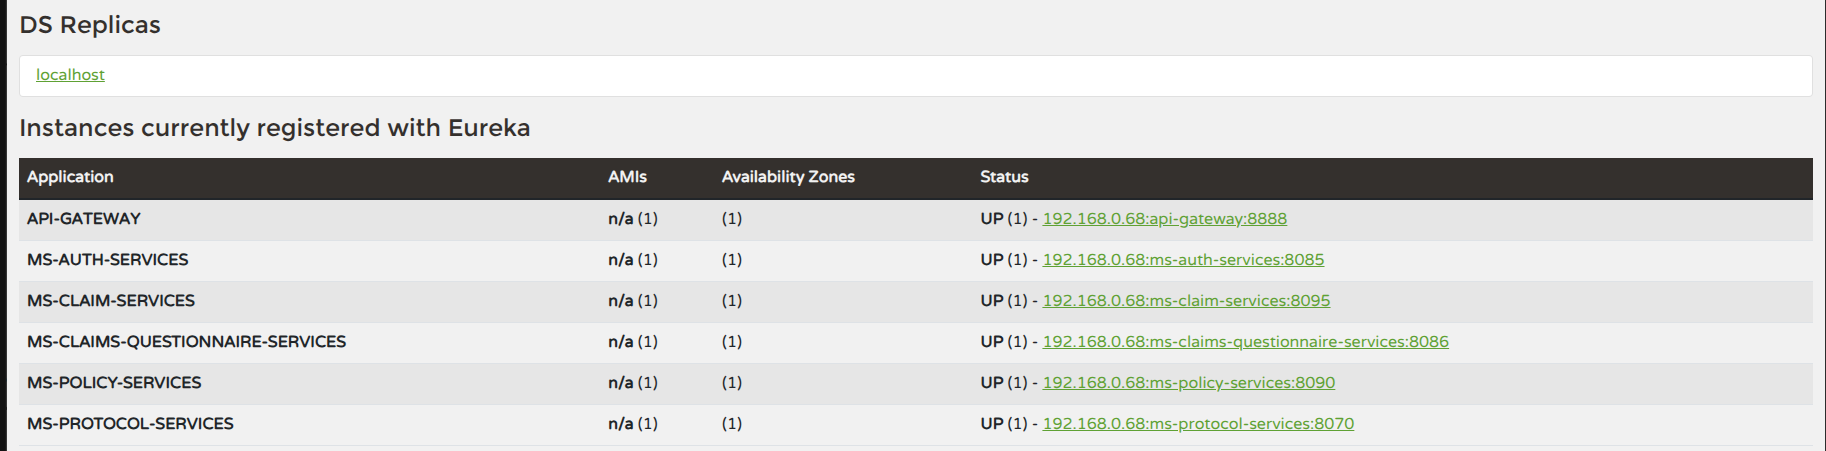
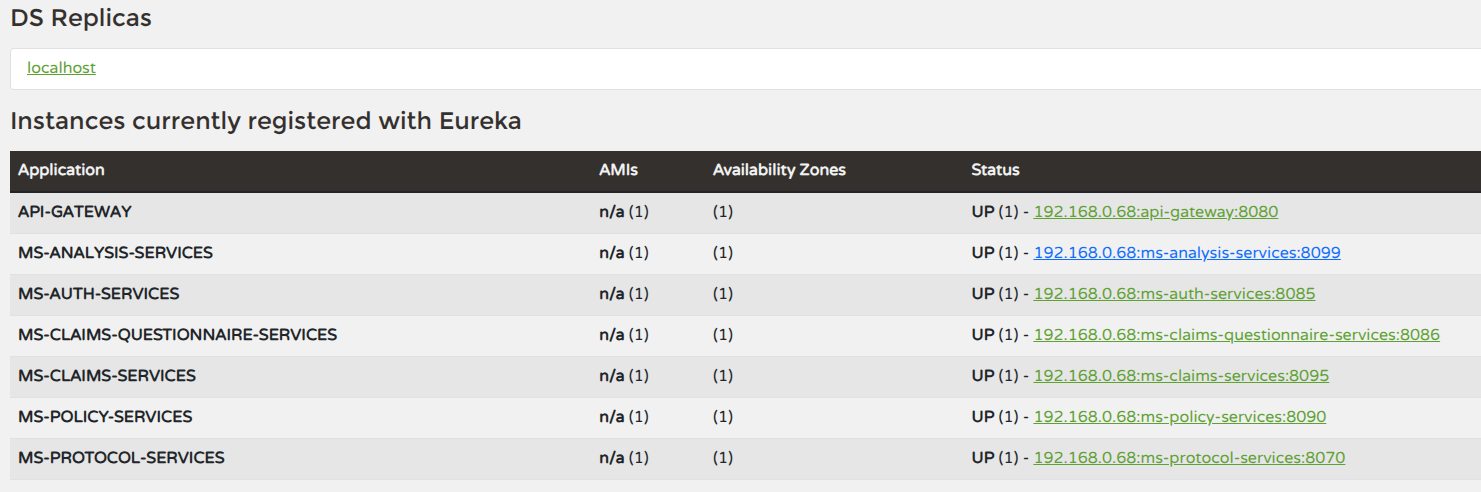
Update Eureka image

diff --git a/ms-claims-questionnaire-services/src/main/java/com/santander/msclaimsquestionnaireservices/model/AnsweredQuestion.java b/ms-claims-questionnaire-services/src/main/java/com/santander/msclaimsquestionnaireservices/model/AnsweredQuestion.java
@@ -25,16 +25,16 @@ import java.time.LocalDateTime;
 @Table(name = "answered_question")
 public class AnsweredQuestion {
     @Id
-    private BigInteger id;
+    private Long id;
 
     @Column(name = "questionnaire_id")
-    private BigInteger questionnaireId;
+    private Long questionnaireId;
 
-//    @Column(name = "claim_id")
-//    private String claimId;
+    @Column(name = "claim_id")
+    private String claimId;
 
     @ManyToOne(fetch = FetchType.LAZY)
-    @JoinColumn(name = "claim_id")
+    @JoinColumn(name = "questionnaire_id", insertable = false, updatable = false)
     private QuestionnaireSession session;
 
     @Column(name = "question_id")
